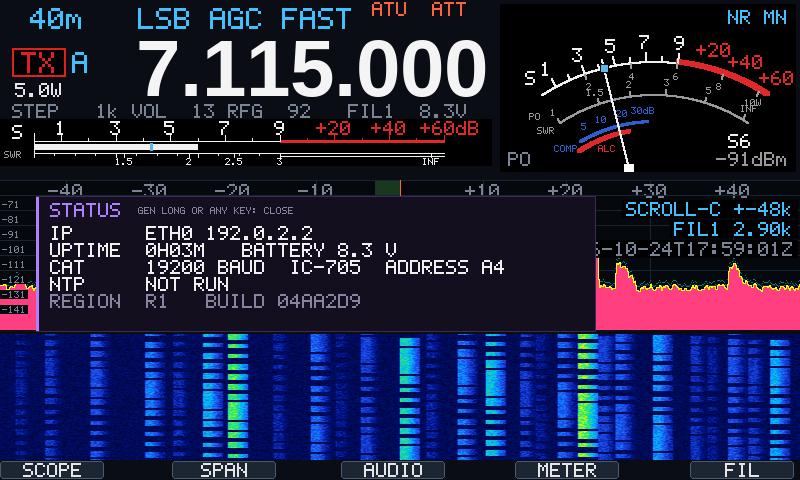
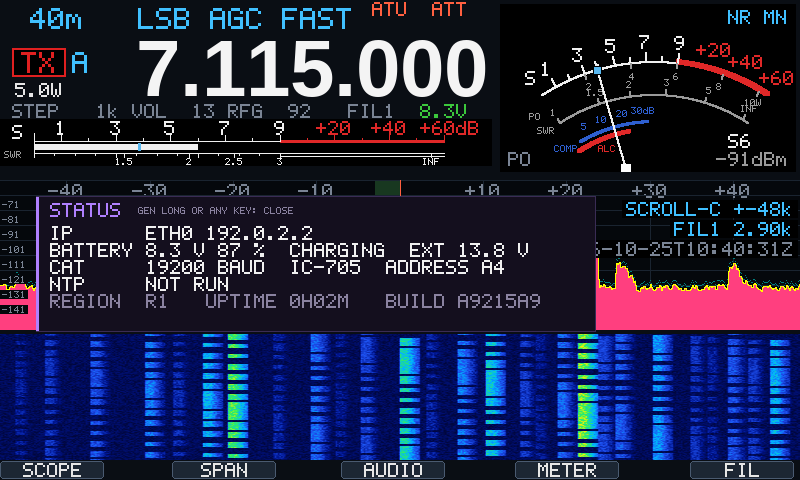
x6100_trx: battery charge and external supply (info line colour, status page, console, low battery notes); TODO RIT / XIT test

diff --git a/tools/x6100_trx.c b/tools/x6100_trx.c
@@ -353,6 +353,8 @@ static double g_iq_db, g_vbat;	/* receive level and battery for the status line 
 static bool g_tx_show;		/* status line shows TX readings instead of the RX level */
 static double g_tx_pwr, g_tx_swr;
 static int g_tx_alc;
+static int g_batcap;		/* battery %, and external supply present, for the status line */
+static bool g_ext;
 static int g_cat_baud;		/* CI-V baud, 0 = no CAT: conf token cat, or --cat */
 static char g_ntp_server[64];	/* conf token ntp <server> | off; empty = ntp.conf or pool.ntp.org */
 static int g_bright;		/* backlight level, % (10-100); 0 = leave as the OS set it */
@@ -843,10 +845,11 @@ static void show(const rx_t *rx)
 		agc_name(rx->agc), sp, rx->lock ? "  LOCK" : "");
 
 	if (g_vbat > 0.0 && g_tx_show)
-		snprintf(line + strlen(line), sizeof(line) - strlen(line), "  TX %4.1f W  swr %3.1f  alc %3d  vbat %.1fV",
-			g_tx_pwr, g_tx_swr, g_tx_alc, g_vbat);
+		snprintf(line + strlen(line), sizeof(line) - strlen(line), "  TX %4.1f W  swr %3.1f  alc %3d  bat %.1fV %d%%%s",
+			g_tx_pwr, g_tx_swr, g_tx_alc, g_vbat, g_batcap, g_ext ? " ext" : "");
 	else if (g_vbat > 0.0)
-		snprintf(line + strlen(line), sizeof(line) - strlen(line), "  iq %6.1f dB  vbat %.1fV", g_iq_db, g_vbat);
+		snprintf(line + strlen(line), sizeof(line) - strlen(line), "  iq %6.1f dB  bat %.1fV %d%%%s", g_iq_db, g_vbat,
+			g_batcap, g_ext ? " ext" : "");
 
 	//
 	// One terminal row only: a line wider than the terminal wraps, and every redraw
@@ -1848,6 +1851,9 @@ typedef struct
 	double vu_peak;
 	uint64_t vu_peak_ms;
 	double vbat;
+	double vext;		/* external supply, V */
+	int batcap;		/* battery charge, % */
+	bool ext;		/* external supply present (flow flag b3): charging when below 100 % */
 
 	//
 	// TX telemetry from the flow frames
@@ -3203,7 +3209,11 @@ static void draw_gen_info(x6100_lcd_t *lcd, const screen_t *scr)
 		fclose(fp);
 	}
 
-	snprintf(lines[n++], sizeof(lines[0]), "UPTIME  %dh%02dm   BATTERY %.1f V", (int) up / 3600, (int) up / 60 % 60, scr->vbat);
+	if (scr->ext)
+		snprintf(lines[n++], sizeof(lines[0]), "BATTERY %.1f V %d %%  %s, EXT %.1f V", scr->vbat, scr->batcap,
+			scr->batcap < 100 ? "CHARGING" : "FULL", scr->vext);
+	else
+		snprintf(lines[n++], sizeof(lines[0]), "BATTERY %.1f V %d %%", scr->vbat, scr->batcap);
 
 	if (g_cat_baud > 0)
 		snprintf(lines[n++], sizeof(lines[0]), "CAT     %d BAUD, IC-705, ADDRESS A4", g_cat_baud);
@@ -3211,7 +3221,8 @@ static void draw_gen_info(x6100_lcd_t *lcd, const screen_t *scr)
 		snprintf(lines[n++], sizeof(lines[0]), "CAT     OFF");
 
 	snprintf(lines[n++], sizeof(lines[0]), "NTP     %s", g_ntp_msg);
-	snprintf(lines[n++], sizeof(lines[0]), "REGION  %s   BUILD %s", g_regions[g_region].name, X6100_REV);
+	snprintf(lines[n++], sizeof(lines[0]), "REGION  %s   UPTIME %dh%02dm   BUILD %s", g_regions[g_region].name,
+		(int) up / 3600, (int) up / 60 % 60, X6100_REV);
 
 	for (int i = 0; i < n; i++) {
 		for (char *c = lines[i]; *c != '\0'; c++)
@@ -3773,8 +3784,17 @@ static void draw_screen(screen_t *scr, const rx_t *rx, bool new_line)
 		x6100_lcd_text(lcd, INFO_COL_RFG, INFO_Y, 2, s, SCR_DIM);
 	}
 
-	snprintf(s, sizeof(s), "%4.1fV", scr->vbat);
-	x6100_lcd_text(lcd, INFO_COL_VBAT, INFO_Y, 2, s, SCR_DIM);
+	//
+	// Battery: voltage, coloured by charge: green on external power (charging below
+	// 100 %), amber under 20 %, red under 10 %; status page (GEN long) has the details
+	//
+	{
+		uint32_t c = scr->ext ? 0x3CC83C : scr->batcap > 0 && scr->batcap < 10 ? SCR_WARN
+			: scr->batcap > 0 && scr->batcap < 20 ? 0xFFB020 : SCR_DIM;
+
+		snprintf(s, sizeof(s), "%4.1fV", scr->vbat);
+		x6100_lcd_text(lcd, INFO_COL_VBAT, INFO_Y, 2, s, c);
+	}
 	snprintf(s, sizeof(s), "FIL%d", rx->fil + 1);
 	x6100_lcd_text(lcd, INFO_COL_FIL, INFO_Y, 2, s, SCR_DIM);
 
@@ -6358,6 +6378,9 @@ int main(int argc, char **argv)
 			scr.swr = swr < 1.0 ? 1.0 : swr;
 			scr.alc = frame.alc_level;
 			scr.vbat = frame.vbat * 0.1;
+			scr.vext = frame.vext * 0.1;
+			scr.batcap = frame.batcap;
+			scr.ext = (frame.flags & X6100_FLOW_VEXT) != 0;
 
 			//
 			// Overload: the flow IQ clips hard at about -6.3 dB (|IQ| ~0.48); no
@@ -6471,6 +6494,23 @@ int main(int argc, char **argv)
 			g_tx_alc = scr.alc;
 			g_iq_db = scr.meter_db;
 			g_vbat = frame.vbat * 0.1;
+			g_batcap = scr.batcap;
+			g_ext = scr.ext;
+
+			// Low battery: a note at 20 % and at 10 %, once each on the way down
+			{
+				static int warned = 100;
+
+				if (!scr.ext && scr.batcap > 0 && scr.batcap <= 10 && warned > 10) {
+					toast("BATTERY 10 %");
+					warned = 10;
+				} else if (!scr.ext && scr.batcap > 10 && scr.batcap <= 20 && warned > 20) {
+					toast("BATTERY 20 %");
+					warned = 20;
+				} else if (scr.ext || scr.batcap > 25) {
+					warned = 100;
+				}
+			}
 			show(&rx);
 			fflush(stdout);
 			level = 0.0;

diff --git a/docs/x6100_trx_quickref.md b/docs/x6100_trx_quickref.md
@@ -104,6 +104,8 @@ Values are kept in the last state (see Settings); defaults NR 20, NB 10 / 10, no
 - AGC default AUTO; AM / FM SLOW (AUTO squashes AM)
 - F1-F5 tags along the bottom edge: SCOPE, SPAN, AUDIO, METER, FIL
 - Audio scope (F3; F3 long: next to the RF scope, RF left / AF right): spectrum and waterfall of the demodulated RX audio (codec capture, 48 kHz), 0-3 or 0-6 kHz (F2), normalised dBFS scale (80 dB window, its bottom 10 dB under the noise floor measured inside the receive passband, so the picture stays put with volume and band noise; shifted by the AF reference level), receive passband shaded, MN line at the notch when on. The capture is opened only while the audio scope is shown
+- Battery voltage (info line, right): green on external power (charging below 100 %),
+  amber under 20 %, red under 10 %; a note on the scope at 20 % and 10 %
 - OVF (red, top left of the dial): flow IQ at its clip level
 - OOB (red, under OVF): band check off (`--oob` or `oob` in the conf) and tuned outside the region's allocations; where you transmit is your responsibility
 - NB / NR / MN (blue, top right of the dial) in fixed places, e.g. `NB    MN`, `   NR   `, `NB NR MN`; MN = manual notch, as on Icom radios
@@ -130,7 +132,8 @@ Bluetooth are the image's own (NetworkManager, bluez) and keep their state thems
 brightness, CAT and NTP go to `x6100_trx.state` at exit. A row set in `x6100_trx.conf` shows CONF and
 cannot be changed here: the conf wins at start, so change it there.
 
-GEN long: status page (IP address, uptime, battery, CAT, last NTP result, build).
+GEN long: status page (IP address, battery with charge and external supply, CAT, last
+NTP result, region, uptime, build).
 
 ![GEN status](images/x6100_trx_status.png)
 
@@ -164,7 +167,8 @@ Type a line + Enter while running; tokens can be combined (`14074000 usb`).
 What you type is shown at the end of the status line (`> memw 5`), so redraws do not
 wipe it; Backspace and ^U (clear) work, Enter runs it and keeps it on its own line.
 The status line is cut to the terminal width. It ends with the receive level and
-battery (`iq -90.6 dB  vbat 8.2V`), while transmitting with `TX 5.0 W  swr 1.2  alc 3`.
+battery (`iq -90.6 dB  bat 8.2V 87%`, `ext` on external power), while transmitting with
+`TX 5.0 W  swr 1.2  alc 3`.
 
 The status line starts with the VFO in use (A / B); with split, RIT or XIT it adds
 `RX 7123.000 TX 7115.000 LSB SPLIT`.

diff --git a/docs/TODO.md b/docs/TODO.md
@@ -10,6 +10,7 @@ Status: 2026-10-24 (v0.8.0).
 
 - TX ranges config file and transverter profile (frequency offset, TX enable).
 - 10 m repeater split (FM, -100 kHz shift, CTCSS) on top of split.
+- RIT / XIT: test on the radio (panel, offset on RX and TX, scope lines, CI-V 21).
 - Hand mic PTT with split: x6100_trx follows the baseband TX flag (verified), the first
   ms go out on the RX side; the baseband split flag (register 12 b1, VFO A RX / VFO B TX)
   could make that clean: to test.
@@ -30,7 +31,6 @@ Status: 2026-10-24 (v0.8.0).
 - CW keyer: speed, iambic A / B, sidetone, break-in delay.
 - Memory channels over CI-V (08 select, 09 write, 0A M>VFO, 0B clear, 1A 00 contents).
 - SWR scan over a band (register 12 `swrscan`).
-- Battery / charge status.
 - Digital modes on the radio (FT8, CW / RTTY decoder); CW / voice message memories;
   RX / TX equaliser.
 
